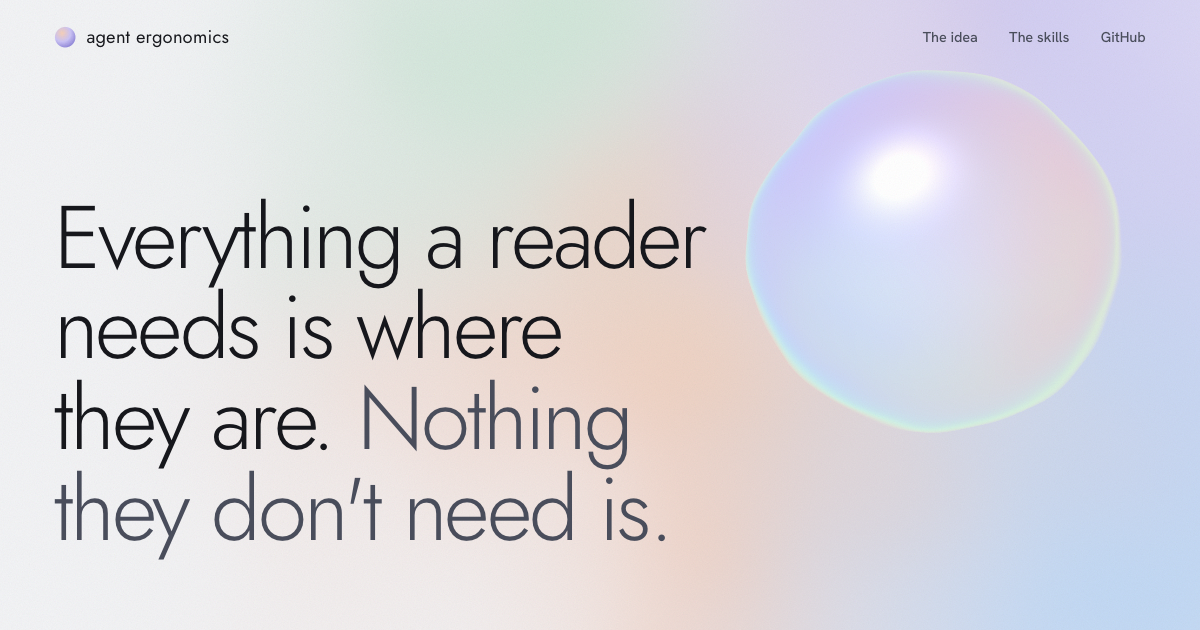
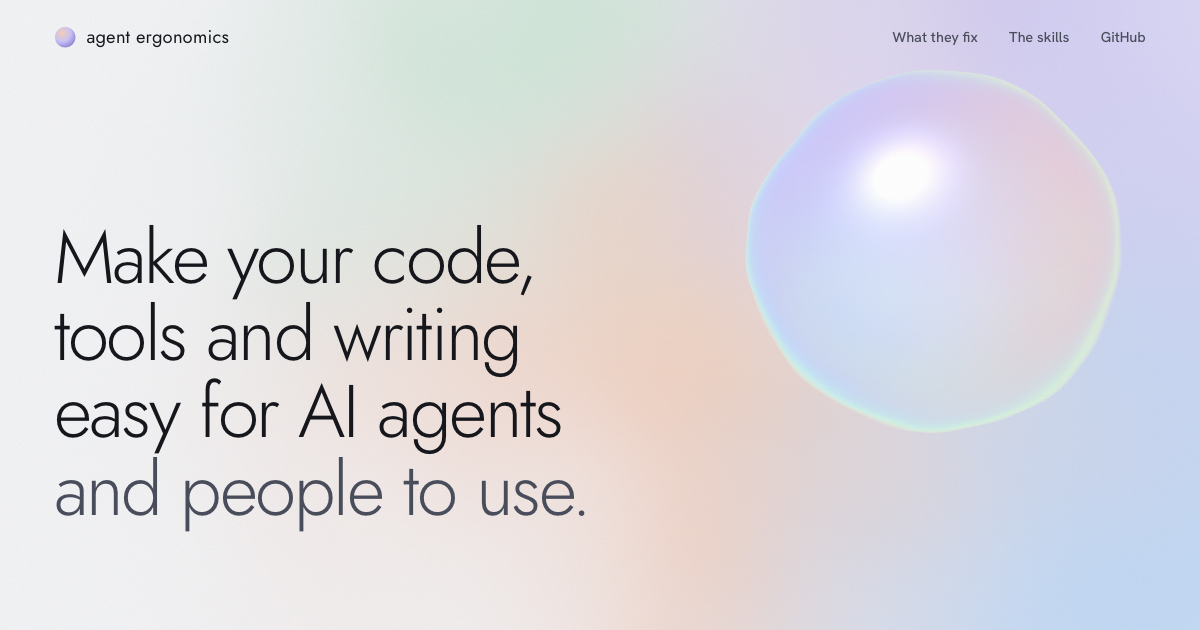
Say what it is: plain copy throughout the site
The headline now says what the skills do and who for, the problems section names four everyday problems and the
skill that handles each, and every skill shows what to ask Claude.

Changed region(s): [[0.0308, 0.3317, 0.5858, 0.8746], [0.74, 0.0302, 0.8017, 0.0905], [0.0617, 0.3016, 0.0925, 0.3317]]

diff --git a/site/index.html b/site/index.html
@@ -4,10 +4,10 @@
 <meta charset="utf-8">
 <meta name="viewport" content="width=device-width, initial-scale=1">
 <title>Agent ergonomics</title>
-<meta name="description" content="Three agent skills built on one idea: everything a reader needs is where they are, and nothing they don't need is. Untangle code, design what agents act through, write for the reader, and make a product clear on first read.">
+<meta name="description" content="Three free Claude Code skills: restructure a codebase so changes land in one place, make CLIs and MCP tools easy for agents to use, rewrite copy so it doesn't sound AI-written, and make an app clear to new users.">
 <meta name="theme-color" content="#f2f3f5">
 <meta property="og:title" content="Agent ergonomics">
-<meta property="og:description" content="Everything a reader needs is where they are. Nothing they don't need is. Three free skills for agents and the people who run them.">
+<meta property="og:description" content="Three free Claude Code skills that make your code, tools and writing easier for AI agents and people to use.">
 <meta property="og:url" content="https://agentergonomics.org/">
 <meta property="og:type" content="website">
 <meta property="og:image" content="https://agentergonomics.org/og.png">
@@ -91,7 +91,7 @@ body::after {
 .bar ul a:hover { color: var(--ink); }
 
 .statement { align-self: center; padding-block: clamp(2rem, 6vh, 4rem); }
-h1 { margin: 0; font: 300 clamp(3rem, 7.4vw, 7.25rem)/1.02 var(--display); letter-spacing: -0.035em; max-width: 14ch; text-wrap: balance; }
+h1 { margin: 0; font: 300 clamp(2.8rem, 6.2vw, 6rem)/1.04 var(--display); letter-spacing: -0.03em; max-width: 15ch; text-wrap: balance; }
 h1 .soft { color: var(--soft); }
 .word { display: inline-block; will-change: transform, opacity, filter; }
 
@@ -141,6 +141,8 @@ h2 { margin: 0 0 1.2rem; font: 300 clamp(2.1rem, 4.2vw, 3.6rem)/1.05 var(--displ
 .terms-after { display: flex; gap: 1.4rem; font: 400 clamp(1.4rem, 2.2vw, 1.75rem)/1.2 var(--display); }
 .terms-after span { display: inline-block; }
 .skill .aside { padding-top: 0.6rem; }
+.ask { font: 400 1.05rem/1.45 var(--display); color: var(--ink); margin: 0 0 0.9em !important; }
+.aside strong { font-weight: 600; color: var(--ink); }
 
 /* the close */
 .close { padding-block: clamp(7rem, 20vh, 12rem) clamp(3rem, 8vh, 5rem); text-align: center; }
@@ -169,24 +171,24 @@ footer p { margin: 0 0 0.4rem; font-size: 0.85rem; color: var(--soft); max-width
     <a class="mark" href="/"><svg viewBox="0 0 24 24" aria-hidden="true"><defs><radialGradient id="m" cx="35%" cy="30%" r="75%"><stop offset="0" stop-color="#f6cfb8"/><stop offset="0.55" stop-color="#cbc3f5"/><stop offset="1" stop-color="#8f86d8"/></radialGradient></defs><circle cx="12" cy="12" r="11" fill="url(#m)"/></svg>agent ergonomics</a>
     <nav aria-label="Page">
       <ul>
-        <li><a href="#idea">The idea</a></li>
+        <li><a href="#idea">What they fix</a></li>
         <li><a href="#skills">The skills</a></li>
         <li><a href="https://github.com/shinyobjectz/agent-ergonomics">GitHub</a></li>
       </ul>
     </nav>
   </div>
   <div class="wrap statement">
-    <h1 data-words>Everything a reader needs is where they are. <span class="soft">Nothing they don't need is.</span></h1>
+    <h1 data-words>Make your code, tools and writing easy for AI agents <span class="soft">and people to use.</span></h1>
   </div>
   <div class="wrap base">
-    <p data-reveal>Three skills that hold your code, your interfaces and your words to that, whether the reader is an agent or a person.</p>
+    <p data-reveal>Three free skills for Claude Code. Install them, then ask Claude to untangle a codebase, fix a CLI that agents keep misusing, rewrite copy, or simplify an app's first screen.</p>
     <div class="card install" id="install" data-reveal>
       <div class="install-head"><span>Install in Claude Code</span><button class="copy" type="button" data-copy="claude plugin marketplace add shinyobjectz/agent-ergonomics&#10;claude plugin install agent-ergonomics@agent-ergonomics">Copy</button></div>
 <pre><span class="p">$ </span>claude plugin marketplace add shinyobjectz/agent-ergonomics
 <span class="p">$ </span>claude plugin install agent-ergonomics@agent-ergonomics</pre>
       <div class="install-foot">
         <a class="btn magnet" href="https://github.com/shinyobjectz/agent-ergonomics"><svg viewBox="0 0 16 16" fill="currentColor" aria-hidden="true"><path d="M8 0C3.58 0 0 3.58 0 8c0 3.54 2.29 6.53 5.47 7.59.4.07.55-.17.55-.38 0-.19-.01-.82-.01-1.49-2.01.37-2.53-.49-2.69-.94-.09-.23-.48-.94-.82-1.13-.28-.15-.68-.52-.01-.53.63-.01 1.08.58 1.23.82.72 1.21 1.87.87 2.33.66.07-.52.28-.87.51-1.07-1.78-.2-3.64-.89-3.64-3.95 0-.87.31-1.59.82-2.15-.08-.2-.36-1.02.08-2.12 0 0 .67-.21 2.2.82.64-.18 1.32-.27 2-.27.68 0 1.36.09 2 .27 1.53-1.04 2.2-.82 2.2-.82.44 1.1.16 1.92.08 2.12.51.56.82 1.27.82 2.15 0 3.07-1.87 3.75-3.65 3.95.29.25.54.73.54 1.48 0 1.07-.01 1.93-.01 2.2 0 .21.15.46.55.38A8.013 8.013 0 0016 8c0-4.42-3.58-8-8-8z"/></svg>Read the skills</a>
-        <span class="aside">Other agents: copy the folders under <code>skills/</code>.</span>
+        <span class="aside">Then start a new Claude Code session.</span>
       </div>
     </div>
   </div>
@@ -195,32 +197,31 @@ footer p { margin: 0 0 0.4rem; font-size: 0.85rem; color: var(--soft); max-width
 <main>
   <section class="idea" id="idea" data-light="calm">
     <div class="wrap">
-      <h2 data-reveal>When what they need lives somewhere else, readers guess</h2>
-      <p class="lede" data-reveal>People guess slowly. Agents guess confidently, and break things without noticing.</p>
+      <h2 data-reveal>What they fix</h2>
+      <p class="lede" data-reveal>Four common problems, and the skill that handles each.</p>
       <ul class="places">
-        <li class="row" data-place><span class="rule"></span><span class="where" data-reveal>A copy of the logic in another file</span><span class="aside" data-reveal>Change one and the other breaks. Keep pieces that change together in one place.</span></li>
-        <li class="row" data-place><span class="rule"></span><span class="where" data-reveal>A flag only the docs mention</span><span class="aside" data-reveal>The agent calls what the docs say, and the parser refuses it. Generate the docs from the parser.</span></li>
-        <li class="row" data-place><span class="rule"></span><span class="where" data-reveal>A term explained three screens after it's used</span><span class="aside" data-reveal>Introduce each idea where it's first needed, with an example.</span></li>
-        <li class="row" data-place><span class="rule"></span><span class="where" data-reveal>A sentence that only makes sense to whoever was in the chat</span><span class="aside" data-reveal>Write for the person reading it, not for the conversation that produced it.</span></li>
+        <li class="row" data-place><span class="rule"></span><span class="where" data-reveal>A small change means editing five files</span><span class="aside" data-reveal><strong>agent-ergonomics</strong> finds the code that should live together and writes a step-by-step plan to restructure it.</span></li>
+        <li class="row" data-place><span class="rule"></span><span class="where" data-reveal>Agents keep misusing your CLI, API or MCP tools</span><span class="aside" data-reveal><strong>agent-ergonomics</strong> fixes the names, flags, output and error messages agents rely on, and measures the result before and after.</span></li>
+        <li class="row" data-place><span class="rule"></span><span class="where" data-reveal>Your copy sounds like AI wrote it</span><span class="aside" data-reveal><strong>purpose-built</strong> rewrites it to be short, specific and plain, with no filler, hype or leftovers from a chat.</span></li>
+        <li class="row" data-place><span class="rule"></span><span class="where" data-reveal>New users don't understand your app</span><span class="aside" data-reveal><strong>first-read</strong> cuts the concepts and jargon a newcomer meets before they get anything done.</span></li>
       </ul>
     </div>
   </section>
 
   <div class="wrap skills-intro row" id="skills">
     <div>
-      <h2 data-reveal>Three skills</h2>
-      <p class="lede" style="margin-bottom:0" data-reveal>Each one starts when a task fits, or when you ask for it by name.</p>
+      <h2 data-reveal>The three skills</h2>
+      <p class="lede" style="margin-bottom:0" data-reveal>Claude uses a skill when your request fits it. You can also name it.</p>
     </div>
-    <div class="aside" data-reveal><p>agent-ergonomics hands its text to purpose-built and its concepts to first-read, so running the first often runs all three.</p></div>
   </div>
 
   <section class="skill" data-light="s1" aria-labelledby="s1">
     <div class="wrap row">
       <div>
         <h3 id="s1" data-reveal>agent-ergonomics</h3>
-        <p class="does" data-reveal>Untangles code so a typical change lands in one place, and redesigns what agents act through (CLIs, MCP tools, APIs, errors) so they can tell what to do and whether it worked.</p>
+        <p class="does" data-reveal>Restructures a codebase so each change happens in one place, and makes CLIs, APIs and MCP tools easy for agents to use. It measures before and after, so you can see whether it helped.</p>
         <div class="card demo log" data-demo="log" data-reveal>
-          <span class="label">One fix from a decision log</span>
+          <span class="label">What you get: a plan, with each fix above the problems it solves</span>
           <strong data-step>Declare each command once, and generate the parser, the help and the docs from it.</strong>
           <ul>
             <li data-step><code>cli/args.ts:12</code> parses <code>--dry-run</code> by hand, and <code>docs/cli.md</code> documents it separately.</li>
@@ -230,8 +231,9 @@ footer p { margin: 0 0 0.4rem; font-size: 0.85rem; color: var(--soft); max-width
         </div>
       </div>
       <div class="aside" data-reveal>
-        <p>Each fix is written above the problems it solves, so one change clears several.</p>
-        <p>Reach for it when a change keeps touching five files, or agents loop on a tool. It takes numbers before and after, so you know whether it helped.</p>
+        <p><strong>Ask Claude:</strong></p>
+        <p class="ask">“Untangle this repo and write the plan to docs/untangle.md.”</p>
+        <p class="ask">“Agents keep calling our CLI wrong. Find out why and fix it.”</p>
       </div>
     </div>
   </section>
@@ -240,17 +242,18 @@ footer p { margin: 0 0 0.4rem; font-size: 0.85rem; color: var(--soft); max-width
     <div class="wrap row">
       <div>
         <h3 id="s2" data-reveal>purpose-built</h3>
-        <p class="does" data-reveal>Writes copy, docs, flows and plans for the reader at the moment they read it, with nothing that sounds generated and nothing left over from the chat.</p>
+        <p class="does" data-reveal>Writes and rewrites copy, docs, error messages and plans so they're clear and specific, and nothing sounds AI-written.</p>
         <div class="card demo" data-demo="cut" data-reveal>
-          <span class="label">Draft</span>
+          <span class="label">Before</span>
           <p class="before"><span class="cut">We're excited to announce that you can now seamlessly</span> export your projects<span class="cut">, making it easier than ever to share your amazing work!</span></p>
-          <span class="label">Rewrite</span>
+          <span class="label">After</span>
           <p class="after" data-step>Export a project as a video or a GIF from the Share menu.</p>
         </div>
       </div>
       <div class="aside" data-reveal>
-        <p>The announcement, the filler and the hype go. What the reader can do stays.</p>
-        <p>Reach for it when text sounds generated, a flow has dead ends, or docs mention “the new version” to readers who never saw the old one.</p>
+        <p><strong>Ask Claude:</strong></p>
+        <p class="ask">“Rewrite the onboarding copy so it's plain and specific.”</p>
+        <p class="ask">“Check this README for filler and AI tells.”</p>
       </div>
     </div>
   </section>
@@ -259,26 +262,27 @@ footer p { margin: 0 0 0.4rem; font-size: 0.85rem; color: var(--soft); max-width
     <div class="wrap row">
       <div>
         <h3 id="s3" data-reveal>first-read</h3>
-        <p class="does" data-reveal>Makes an app or a tool understood on first contact. It lists every concept a new reader meets, and cuts them to the few the first task needs.</p>
+        <p class="does" data-reveal>Finds what confuses people the first time they use your app or tool, such as too many concepts, unexplained terms, or two names for one thing, and cuts it down.</p>
         <div class="card demo" data-demo="terms" data-reveal>
-          <span class="label">Terms a new user meets before their first run</span>
+          <span class="label">Terms a new user had to learn before their first run</span>
           <p class="terms"><span class="cut">workspace</span> <span class="kept">project</span> <span class="cut">board</span> <span class="cut">pipeline</span> <span class="cut">stage</span> <span class="cut">runner</span> <span class="cut">job</span></p>
           <span class="label">After</span>
           <p class="terms-after"><span data-step>project</span><span data-step>steps</span></p>
         </div>
       </div>
       <div class="aside" data-reveal>
-        <p>Workspace and project were the same thing. Board, pipeline and stage were three views of one list. Runner and job were internal.</p>
-        <p>Reach for it when people call something confusing, onboarding needs a glossary, or one product has six words for three things.</p>
+        <p><strong>Ask Claude:</strong></p>
+        <p class="ask">“Review our landing page and first screen for a new user.”</p>
+        <p class="ask">“We have too many terms. Simplify them.”</p>
       </div>
     </div>
   </section>
 
   <section class="close" data-light="close" aria-labelledby="close">
     <div class="wrap">
-      <h2 id="close" data-words>Give every reader what they need, where they need it.</h2>
+      <h2 id="close" data-words>Free and open source, for Claude Code.</h2>
       <div data-reveal><a class="btn magnet" href="https://github.com/shinyobjectz/agent-ergonomics">Get the skills on GitHub</a></div>
-      <p class="small" data-reveal>Free and MIT licensed. Install commands are <a href="#install">at the top</a>.</p>
+      <p class="small" data-reveal>MIT licensed. The install commands are <a href="#install">at the top</a>. Using another agent? Copy the folders in <code>skills/</code> into its skills directory.</p>
     </div>
   </section>
 </main>

diff --git a/.impeccable/surfaces/site-index-html.md b/.impeccable/surfaces/site-index-html.md
@@ -4,7 +4,6 @@ MODE: Persuade.
 THESIS: soft light that breathes. A minimalist, high-end tech, science and meditation feel: mist ground, pastel light,
 light-weight display type, one breathing pearl. Pinned by the owner on 2026-11-22 (replacing the annotated paper form),
 along with the instruction to use Motion and three.js heavily so the page feels alive.
-STORY: the statement, then the four places a reader is forced to guess, then the three skills each playing its own
-demo, then one closing line and the GitHub action.
+STORY: what it is and how to install it, then four problems it fixes with the skill for each, then each skill with what it does, a worked example and what to ask Claude, then the GitHub action.
 FIRST VIEWPORT: the statement, the install commands and the GitHub button, beside the pearl.
 FINISH: see DESIGN.md. Every animation is decoration; the page reads complete with scripts off or reduced motion.
